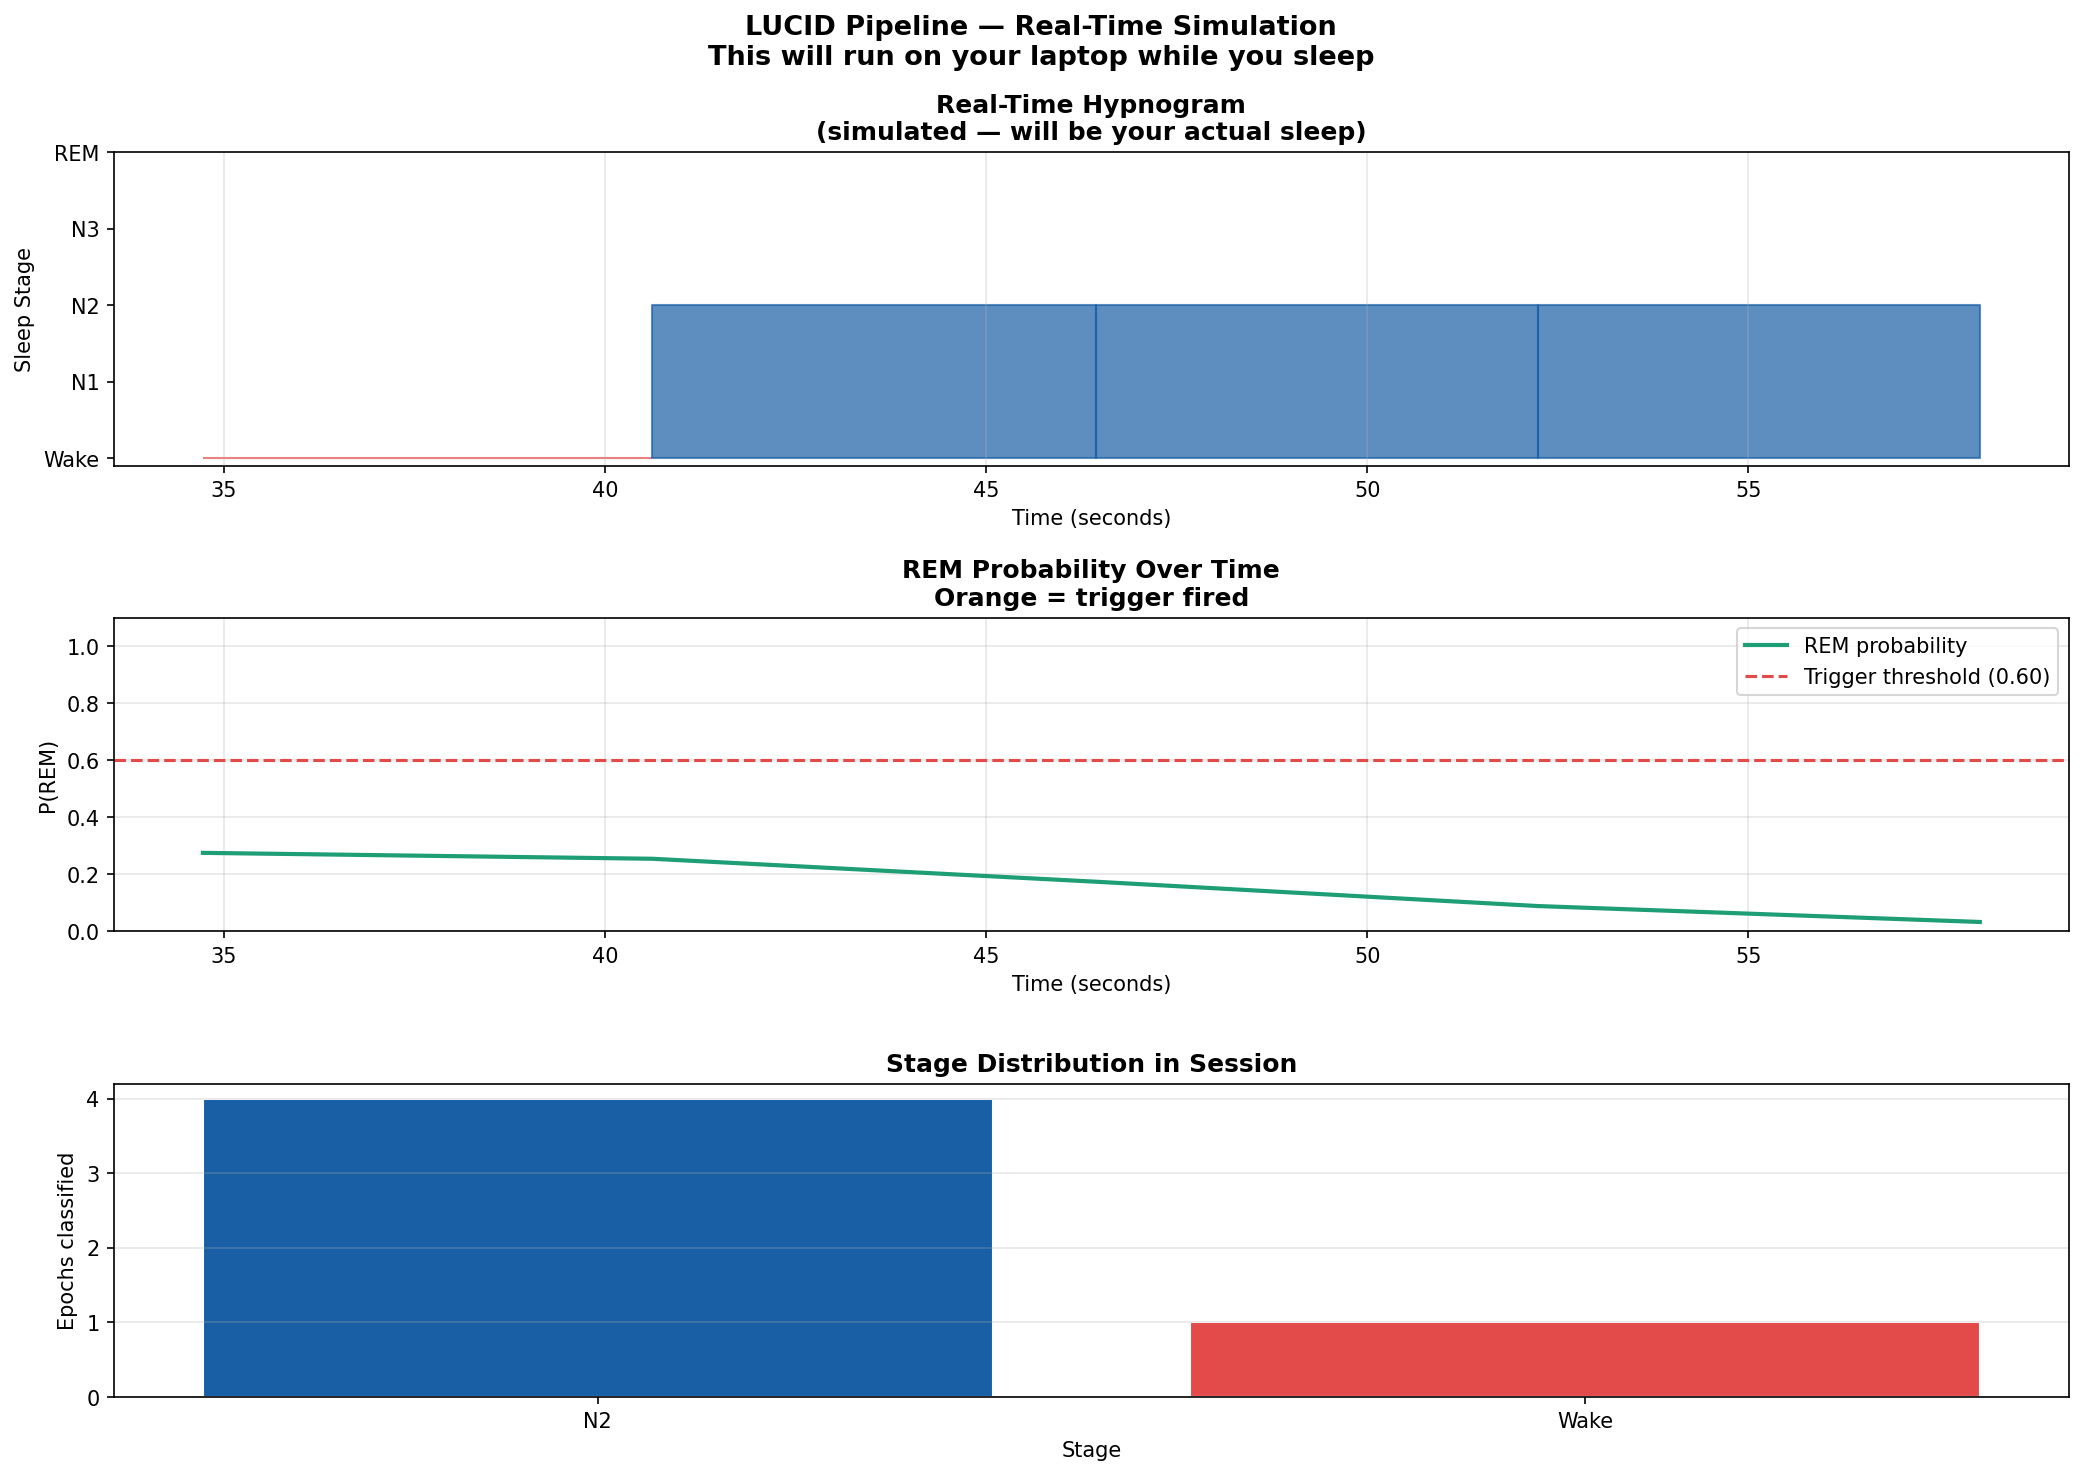
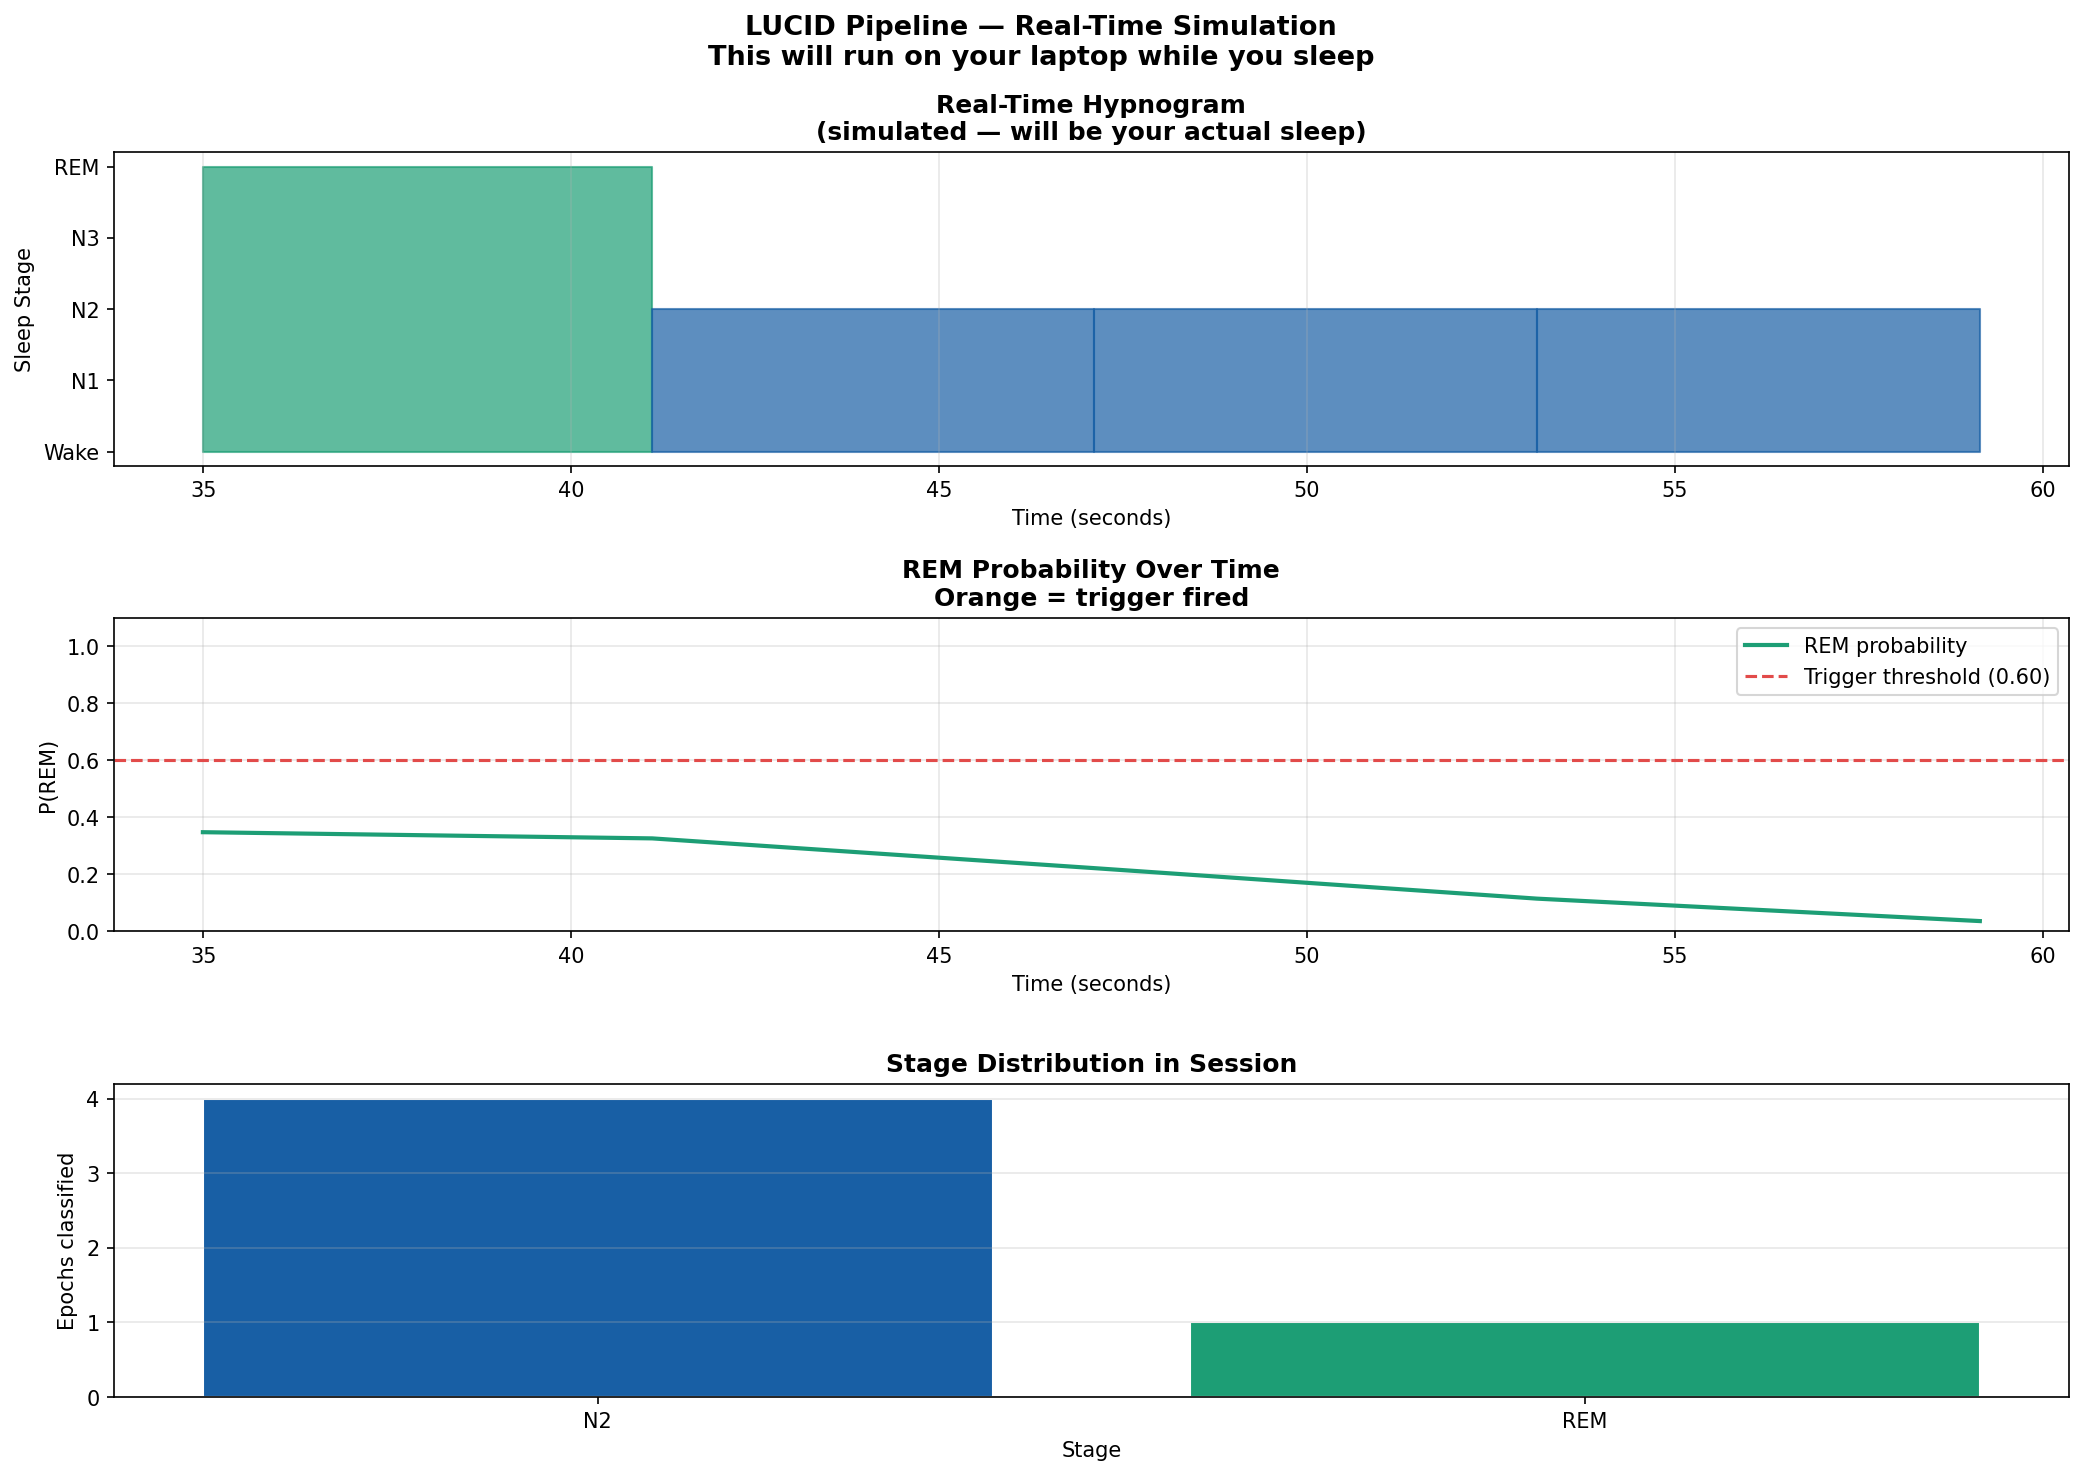
My observations and findings

diff --git a/classifier_main_pipeline/src/muse_s_stream.py b/classifier_main_pipeline/src/muse_s_stream.py
@@ -10,7 +10,7 @@
 # 2. Start Muse stream (in terminal):
 # muselsl stream
 
-# 3. In your Python script:
+# 3. In our Python script:
 from pylsl import StreamInlet, resolve_stream
 import numpy as np
 
